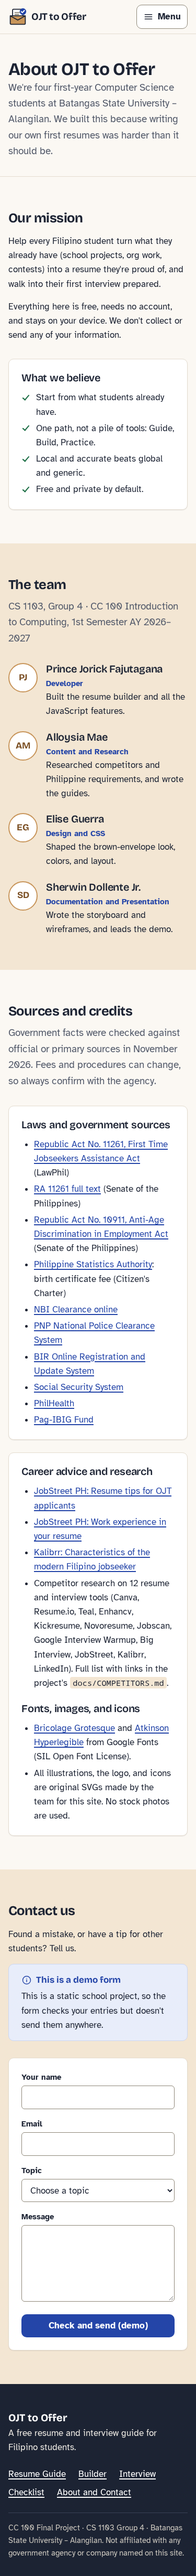
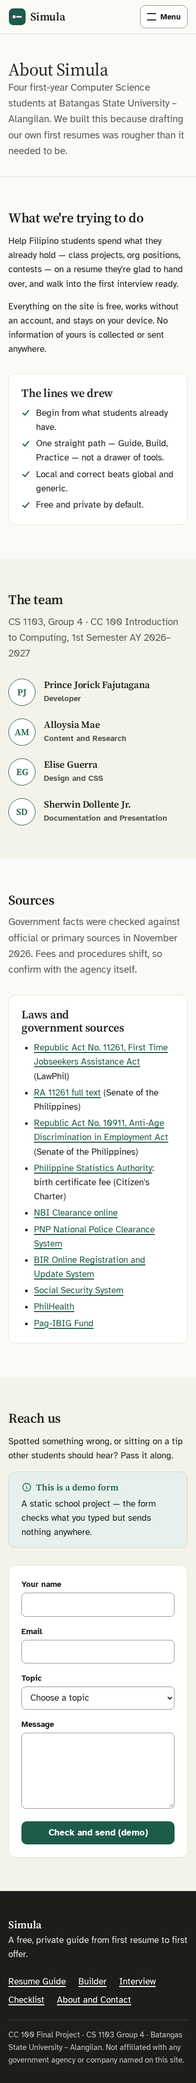
docs: update README, screenshots, and design notes for Simula

diff --git a/README.md b/README.md
@@ -1,4 +1,4 @@
-# OJT to Offer
+# Simula
 
 **A free resume and interview guide for Filipino students.** Turn school projects and org work into a one-page resume, practice the interview questions local employers actually ask, and prepare your pre-employment documents, including the ones that are free under RA 11261.
 
@@ -13,34 +13,33 @@ Category 12: Employment and Career Services → Resume and Interview Guide
 
 Global tools like Canva, Resume.io, and Teal assume you already have work experience, often charge to download a PDF, keep resume-building separate from interview prep, and skip Philippine hiring realities. We reviewed 12 tools; see [docs/COMPETITORS.md](docs/COMPETITORS.md).
 
-**UVP:** OJT to Offer helps Filipino students turn school projects and org work into a one-page resume, then practice the interview questions local employers actually ask, free, with no sign-up.
+**UVP:** Simula helps Filipino students turn school projects and org work into a one-page resume, then practice the interview questions local employers actually ask, free, with an optional account that nobody has to make.
 
 ## Title
 
-**OJT to Offer** names the exact path we help with, from your OJT or first application to your first job offer, using a word every Filipino college student already knows.
+**Simula** is the Filipino word for "beginning," and that is exactly what this site is for: the first resume, the first interview, the first offer. A student reads it as their own starting point, and it stays one word, five letters, easy to say in a class demo.
 
-The name is stored in one place: `SITE_NAME` in [`site/js/data.js`](site/js/data.js). `nav.js` copies it into every page title and every element marked `data-site-name`. (The HTML also contains the name as plain text so it still shows if JavaScript is off; search-and-replace "OJT to Offer" in `site/*.html` if you rename.)
+The name is stored in one place: `SITE_NAME` in [`site/js/data.js`](site/js/data.js). `nav.js` copies it into every page title and every element marked `data-site-name`. (The HTML also contains the name as plain text so it still shows if JavaScript is off; search-and-replace "Simula" in `site/*.html` if you rename.)
 
-### Search evidence (November 10, 2026)
+### Name check (November 10, 2026)
 
-Five candidates were searched as exact phrases together with "resume," "career," and "interview."
-
-| Candidate | Result | Decision |
-|-----------|--------|----------|
-| **OJT to Offer** | Searches for `"OJT to Offer" resume career interview`, `"OJT to Offer" career`, and `"OJTtoOffer" OR "OJT2Offer"` returned no product, company, or app with this name, only general on-the-job-training pages. | **Chosen** |
-| Paper to Panel | No product found; closest match was an unrelated slide deck titled "From Paper to Performance." Doesn't say "student." | Rejected (weaker fit) |
-| FirstRung | No product found for `"FirstRung"` or `"First Rung"` with resume/career/interview. Abstract; doesn't mention resume or interview. | Rejected (weaker fit) |
-| Hire Ground | No exact match, but results were crowded with similarly named "Hire-" apps (Hired AI, Hireable, HireMind, Hiration). | Rejected (crowded) |
-| Campus to Career | A common phrase already used by schools and career events (e.g., Mapúa MCM's "From Classroom to Career"). | Rejected (generic) |
+Live web search was unavailable in this session, so the record here is what we can state from general knowledge. The one well-known namesake is **Simula**, the 1960s Norwegian programming language credited as the first object-oriented language; it is of historical interest only, not a product, company, or app in the career space, and for a Computer Science project the nod reads as intentional rather than accidental. No resume, career, or interview product named Simula is known to the team. The name decision was confirmed by the team during the redesign.
 
 ## How to run
 
 No install, no build. Either:
 
-- **Offline:** open `site/index.html` in any modern browser (double-click it). Everything works from `file://`; without internet, the system fonts take over.
+- **Offline:** open `site/index.html` in any modern browser (double-click it). Everything works from `file://`; without internet, the system fonts take over, and signing in is simply not available (see Accounts below).
 - **Online:** visit https://princejorick.github.io/itc-final-project/. GitHub Actions ([`.github/workflows/pages.yml`](.github/workflows/pages.yml)) publishes the `site/` folder as-is on every push to `main`.
 
 For submission, zip or upload the `site/` folder to Google Drive.
+
+## Accounts (optional)
+
+The whole site works with no account: drafts, checklists, and custom cards live in `localStorage` on the visitor's device. Sign-in is email + password through Supabase, and it is **off by default**:
+
+- With `window.SIMULA_AUTH` left empty in [`site/js/auth-config.js`](site/js/auth-config.js), the site contacts no one and loads no library; the nav link simply goes to the login page, which explains that accounts aren't connected.
+- Fill in `supabaseUrl` and `supabaseAnonKey` there to switch accounts on. `js/auth.js` then loads supabase-js from a CDN on first use only. (So a configured copy makes one allowed external request beyond Google Fonts; an unconfigured copy, like the submission, makes none.)
 
 ## Features
 
@@ -51,22 +50,28 @@ For submission, zip or upload the `site/` folder to Google Drive.
 | **Builder** | Fill in a form and watch a live preview; add/remove entries; "No experience yet" mode; Classic and Modern ATS-friendly templates; autosave (`localStorage`, key `resumeDraft`); load sample; clear with confirmation; Download PDF (one page, print-only layout) |
 | | **Bullet helper** (rule-based): verb + what + tool + result → "Developed X using Y, resulting in Z", inserted with one click |
 | | **Job-fit checker**: paste a posting → matched skills, missing skills, match %, and tips (case-insensitive, whole-word matching against 90+ keywords) |
-| **Interview** | Flashcards with category filters, reveal tip and sample answer, previous/next, random question; 22 questions including "Expected salary?" and night shift; saved STAR template; attire and online interview tips |
+| **Interview** | Flashcards with category filters (including a "Yours" shelf), reveal tip and sample answer, previous/next, random question; 22 built-in questions; **write, edit, and delete your own cards** (saved as `simulaCards` on the device); saved STAR template; attire and online interview tips |
 | **Checklist** | 13 pre-employment documents with saved checkboxes, a progress bar, "How to get it" steps, and RA 11261 free-document guide |
-| **About** | Mission, team, sources and credits, and a demo contact form with validation (nothing is sent) |
+| **About** | Mission, team, sources, and a demo contact form with validation (nothing is sent) |
+| **Sign in** | Optional email + password accounts (Supabase) with a Create account tab; inert until configured |
 
-Accessibility: skip link, keyboard-friendly navigation, visible focus everywhere, labels on every input, WCAG AA contrast, and reduced-motion support.
+Accessibility: skip link, keyboard-friendly navigation, visible focus everywhere, labels on every input, WCAG AA contrast, and reduced-motion support (all reveals and counters settle instantly).
 
 ## Project structure
 
 ```
 site/                 ← the website (this is what gets submitted)
-  index.html  resume-guide.html  builder.html  interview.html  checklist.html  about.html
+  index.html  resume-guide.html  builder.html  interview.html
+  checklist.html  about.html  login.html
   css/style.css       ← the one shared stylesheet
   css/print.css       ← resume-only print layout
   js/data.js          ← all content data + SITE_NAME
-  js/nav.js  js/builder.js  js/interview.js  js/checklist.js  js/contact.js
-  images/             ← original SVGs
+  js/nav.js           ← shared header/menu behavior
+  js/motion.js        ← scroll reveals and the register counters
+  js/auth-config.js   ← empty Supabase placeholder (accounts off)
+  js/auth.js          ← optional sign-in; inert while unconfigured
+  js/builder.js  js/interview.js  js/checklist.js  js/contact.js
+  images/             ← original SVGs (logo and favicon)
 docs/                 ← research, design system, team notes, screenshots, inputs
 tests/                ← Playwright tests (dev only; the site never uses this folder)
 SOURCES.md  CHANGELOG.md  PRODUCT.md
@@ -80,14 +85,15 @@ Playwright runs every page and feature at 375px and 1280px against the site open
 cd tests
 npm install
 npx playwright install chromium
-npm test                 # 154 passing; 14 skipped (12 opt-in screenshots + 2 viewport-only checks)
+npm test                 # 174 passing; 16 skipped (14 opt-in screenshots + 2 viewport-only checks)
 npm run screenshots      # refreshes docs/screenshots/
 ```
 
 ## Tech and skills used
 
-- **Stack:** HTML5, one CSS file (custom properties, Flexbox, Grid, media queries), vanilla JavaScript, `localStorage`. No frameworks, libraries, build tools, backend, or third-party services. Google Fonts is the only external request.
-- **Design and build skills:** ui-ux-pro-max (design system generation), impeccable (product context, design direction, craft checks, contrast hook), web research for competitors, title checks, and PH government facts; Playwright for testing and screenshots.
+- **Stack:** HTML5, one CSS file (custom properties, Flexbox, Grid, media queries), vanilla JavaScript, `localStorage`. No frameworks, build tools, or backend. Google Fonts is the only external request the site makes as submitted; optional Supabase accounts add a CDN script only when configured by hand.
+- **Design and build skills:** ui-ux-pro-max (design system generation), impeccable (product context, design direction, craft checks, contrast hook, finish review), web research for competitors, title checks, and PH government facts; Playwright for testing and screenshots.
+- **Visual direction:** "The Trusted Ledger" — porcelain ground, register-green action color, serif display type over a hyperlegible sans body, hairline rules, tabular numerals, and gold reserved for the RA 11261 free-document mark. Full detail in [docs/DESIGN.md](docs/DESIGN.md).
 
 ## Documentation for the team
 
@@ -100,8 +106,8 @@ npm run screenshots      # refreshes docs/screenshots/
 ## Credits
 
 - Content sources: see [SOURCES.md](SOURCES.md) and the About page.
-- Fonts: Bricolage Grotesque and Atkinson Hyperlegible (Google Fonts, SIL Open Font License).
-- Illustrations, logo, and icons: original work for this project.
+- Fonts: Source Serif 4 and Atkinson Hyperlegible (Google Fonts, SIL Open Font License).
+- Logo, favicon, and icons: original work for this project. No stock images.
 - Team: Prince Jorick Fajutagana, Alloysia Mae, Elise Guerra, Sherwin Dollente Jr.
 
 Not affiliated with any government agency or company named on this site. Fees and procedures change, so always confirm with the agency.

diff --git a/.impeccable/surfaces/site-index-html.md b/.impeccable/surfaces/site-index-html.md
@@ -1,0 +1,30 @@
+---
+version: 1
+slug: "site-index-html"
+primary_target: "site/index.html"
+related_targets: ["site/resume-guide.html","site/builder.html","site/interview.html","site/checklist.html","site/about.html","site/login.html"]
+---
+
+# Surface brief: marketing site (all pages)
+
+Scope: full visual redesign of the six public pages plus a new login page; vanilla static HTML/CSS/JS. Visitor mode per surface: Home **Persuade**, guides **Read**, builder/interview/checklist **Operate**, login **Operate**.
+
+Audience: Filipino students writing their first resume on a phone, near a deadline. Job: believe their school work already counts, then build, practice, and collect documents. Action: start the resume. Proof: the live ledger register showing preparation as tracked progress. Constraints: runs from file:// and GitHub Pages, WCAG AA, reduced-motion support, optional Supabase email+password auth that degrades gracefully offline.
+
+## Direction contract
+
+THESIS: the first application tracked with the calm precision of a money app — the category default (hero, feature cards, CTA) refused in favor of a working register on the first screen.
+
+OWN-WORLD: porcelain ground `#FAFAF7`, deep register-green `#1D5B4A` as the only action color, ink `#1C1E1A`, hairline rules `#E3E2D8`; white sheets with 1px borders and no shadow; tabular numerals for every count; serif display (Source Serif 4) over hyperlegible sans body; restrained gold `#A87A2E` reserved for the free-under-RA-11261 mark.
+
+STORY: the visitor sees their preparation as three ledger entries with filling meters — resume, interview, documents — understands progress is kept and private, and starts the first entry.
+
+FIRST VIEWPORT: left column headline (serif, ~13ch), one-paragraph lede, primary green action + secondary action, quiet privacy line; right column the bordered preparation register card, meters filling on load, counts in tabular figures. Header: wordmark + nav + sign-in control.
+
+FORM: The Trusted Ledger, position 2 of 7 grounded candidates, IMPECCABLE'S PICK chosen over the roll's assigned Credential Pass. seed:71361a91fbadf234
+
+FINISH: unreviewed and undocumented is unfinished; this build ends with the finish review, the verdict, DESIGN.md, and every shipping raster carrying its provenance.
+
+## Unresolved decisions
+
+None; name Simula confirmed, optional-login model confirmed, team names kept without descriptions.

diff --git a/.impeccable/surface-briefs/site.md b/.impeccable/surface-briefs/site.md
@@ -1,0 +1,23 @@
+# Surface brief: marketing site (all pages)
+
+Scope: full visual redesign of the six public pages plus a new login page; vanilla static HTML/CSS/JS. Visitor mode per surface: Home **Persuade**, guides **Read**, builder/interview/checklist **Operate**, login **Operate**.
+
+Audience: Filipino students writing their first resume on a phone, near a deadline. Job: believe their school work already counts, then build, practice, and collect documents. Action: start the resume. Proof: the live ledger register showing preparation as tracked progress. Constraints: runs from file:// and GitHub Pages, WCAG AA, reduced-motion support, optional Supabase email+password auth that degrades gracefully offline.
+
+## Direction contract
+
+THESIS: the first application tracked with the calm precision of a money app — the category default (hero, feature cards, CTA) refused in favor of a working register on the first screen.
+
+OWN-WORLD: porcelain ground `#FAFAF7`, deep register-green `#1D5B4A` as the only action color, ink `#1C1E1A`, hairline rules `#E3E2D8`; white sheets with 1px borders and no shadow; tabular numerals for every count; serif display (Source Serif 4) over hyperlegible sans body; restrained gold `#A87A2E` reserved for the free-under-RA-11261 mark.
+
+STORY: the visitor sees their preparation as three ledger entries with filling meters — resume, interview, documents — understands progress is kept and private, and starts the first entry.
+
+FIRST VIEWPORT: left column headline (serif, ~13ch), one-paragraph lede, primary green action + secondary action, quiet privacy line; right column the bordered preparation register card, meters filling on load, counts in tabular figures. Header: wordmark + nav + sign-in control.
+
+FORM: The Trusted Ledger, position 2 of 7 grounded candidates, IMPECCABLE'S PICK chosen over the roll's assigned Credential Pass. seed:71361a91fbadf234
+
+FINISH: unreviewed and undocumented is unfinished; this build ends with the finish review, the verdict, DESIGN.md, and every shipping raster carrying its provenance.
+
+## Unresolved decisions
+
+None; name Simula confirmed, optional-login model confirmed, team names kept without descriptions.
